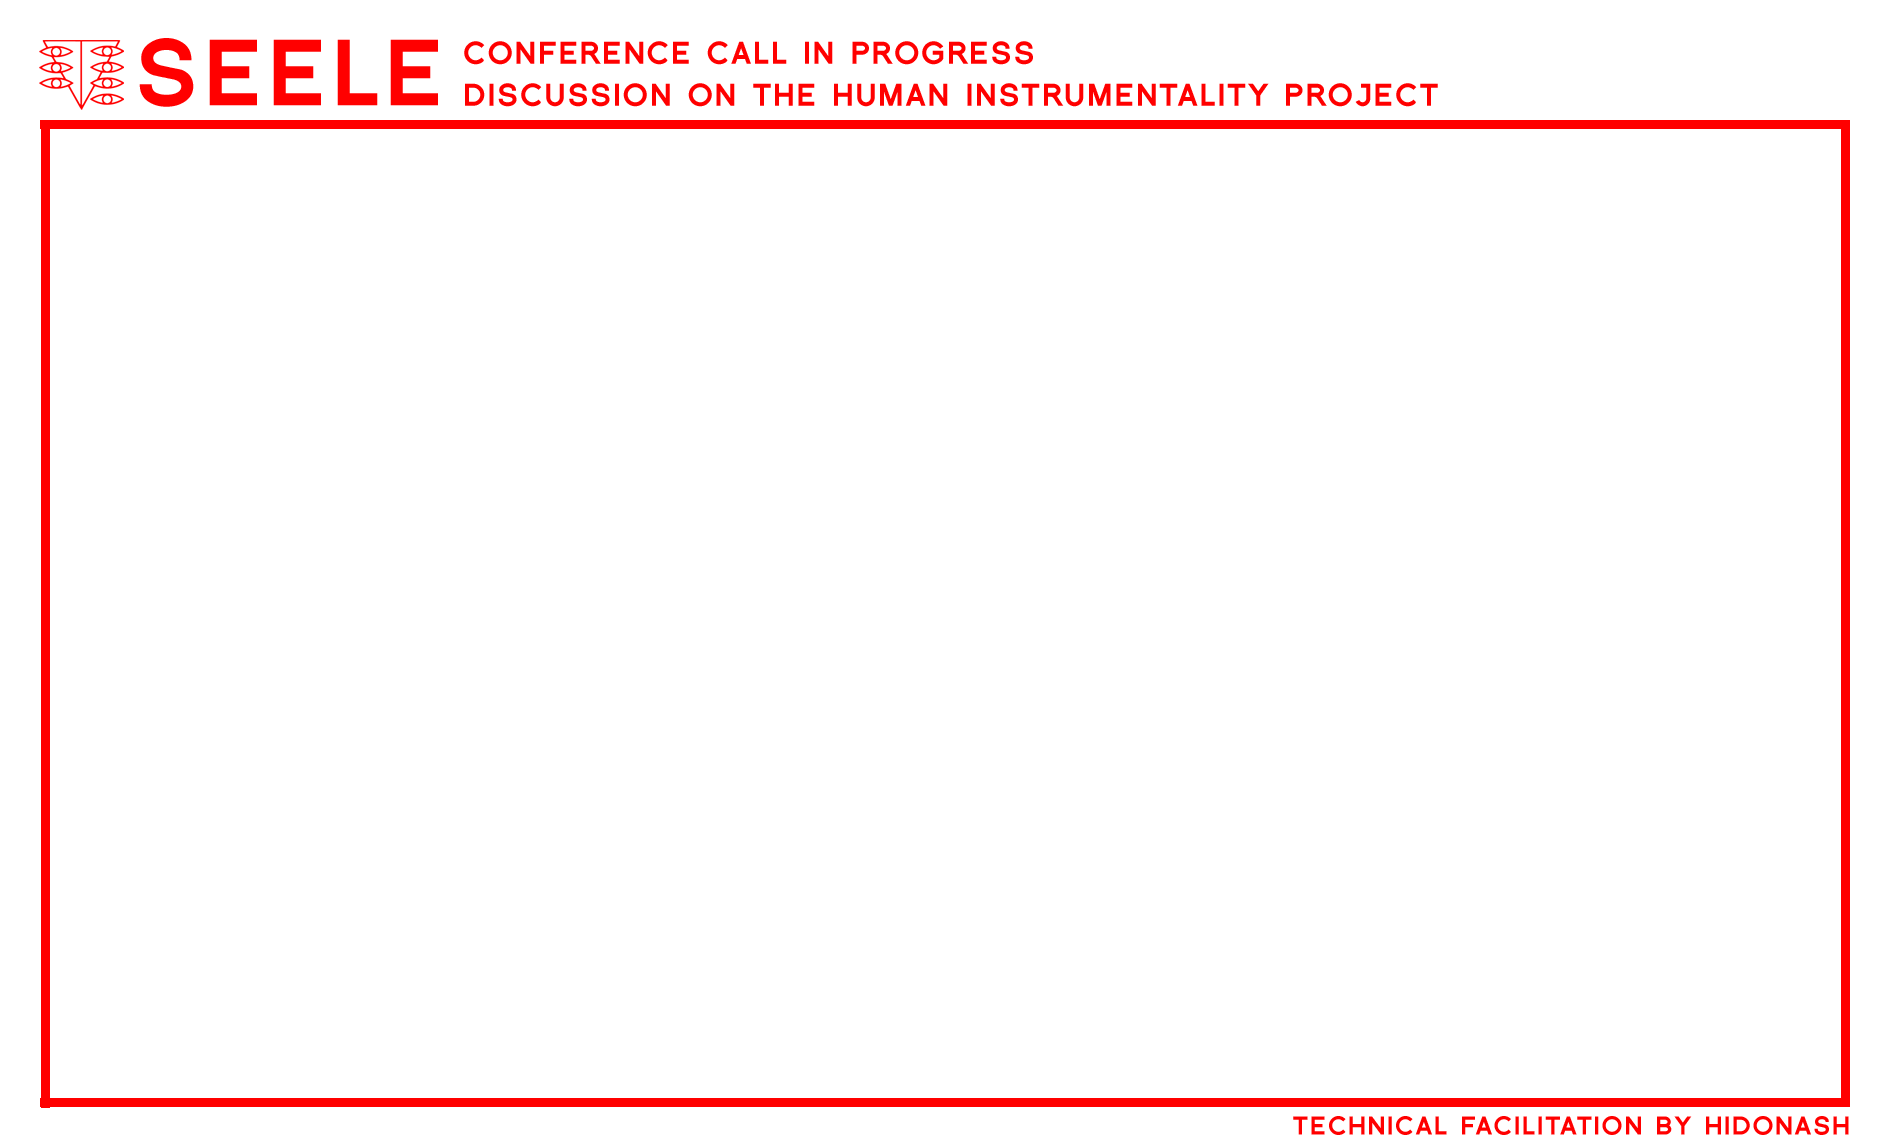
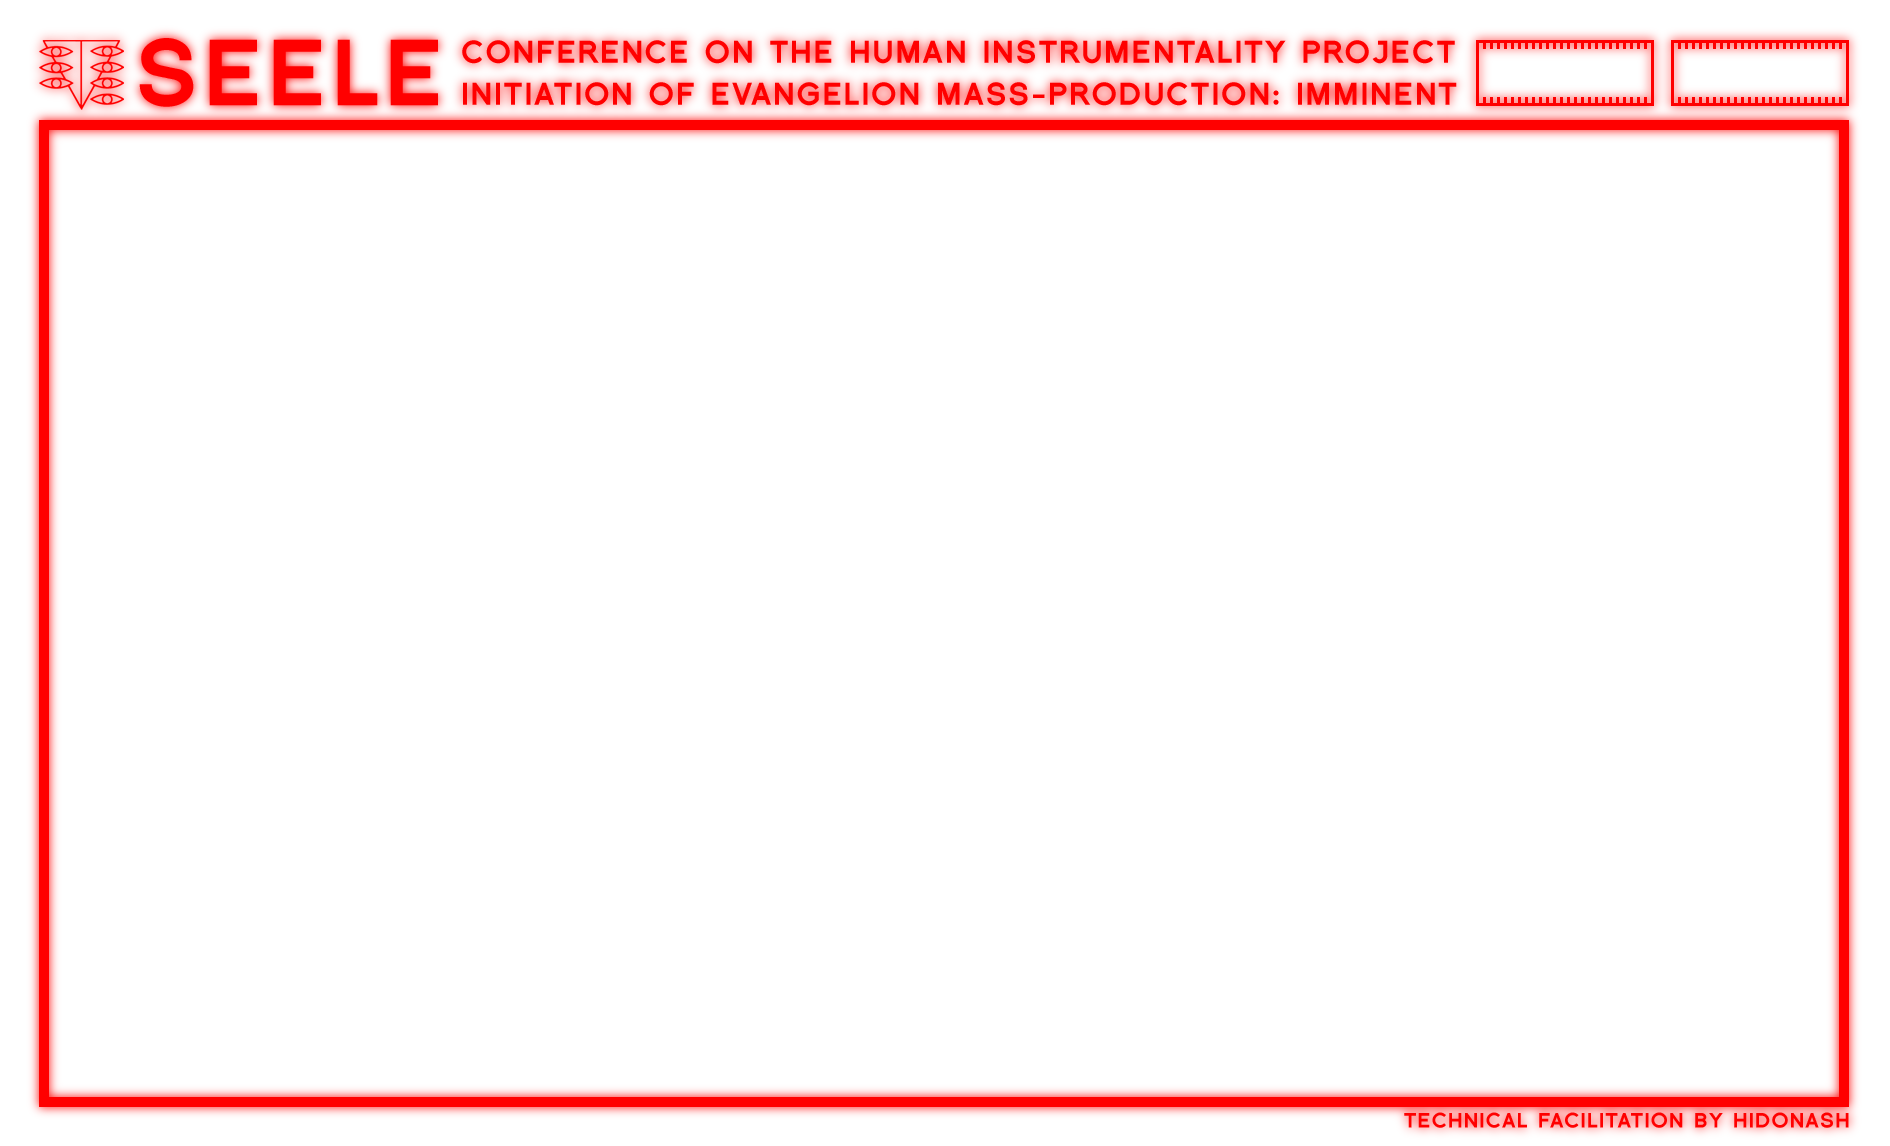
add oscilloscope

Changed region(s): [[0.0, 0.0305, 0.9989, 1.0]]

diff --git a/seele/src/PluginProcessor.cpp b/seele/src/PluginProcessor.cpp
@@ -1,8 +1,8 @@
 #include "PluginProcessor.h"
 #include "PluginEditor.h"
+#include "juce_core/juce_core.h"
 #include "seeleCore/MemberParameterSet.h"
 
-#include <functional>
 #include <seeleCore/Factory.h>
 #include <seeleCore/Config.h>
 
@@ -13,8 +13,10 @@ NewProjectAudioProcessor::NewProjectAudioProcessor()
     .withOutput("Output", juce::AudioChannelSet::stereo(), true))
 , parameters_(*this, nullptr, "Parameters", createParameters())
 , memberParameterSet_(std::make_unique<hidonash::MemberParameterSet>(parameters_))
+, currentProgram_(1)
+, audioFifo_(64)
 {
-    setLatencySamples(latency_);
+    setLatencySamples(16);
 
     programs_.emplace_back("program one");
     programs_.emplace_back("program two");
@@ -73,6 +75,7 @@ void NewProjectAudioProcessor::changeProgramName (int index, const juce::String&
 void NewProjectAudioProcessor::prepareToPlay (double sampleRate, int samplesPerBlock)
 {
     engine_ = hidonash::Factory().createEngine(*memberParameterSet_, sampleRate, samplesPerBlock, getTotalNumInputChannels());
+    visualizationBuffer_.setSize(getTotalNumInputChannels(), samplesPerBlock);
 }
 
 void NewProjectAudioProcessor::releaseResources()
@@ -98,6 +101,9 @@ void NewProjectAudioProcessor::processBlock(juce::AudioBuffer<float>& buffer, ju
 
     buffer.copyFrom (0, 0, inputBuffer.getDataPointer(), inputBuffer.getNumSamples());
     buffer.copyFrom (1, 0, inputBuffer.getDataPointer(), inputBuffer.getNumSamples());
+
+    const std::lock_guard<std::mutex> lock(bufferMutex_);
+    pushNextAudioBlock(buffer.getReadPointer(0), buffer.getNumSamples());
 }
 
 bool NewProjectAudioProcessor::hasEditor() const
@@ -123,6 +129,12 @@ juce::AudioProcessor* JUCE_CALLTYPE createPluginFilter()
     return new NewProjectAudioProcessor();
 }
 
+void NewProjectAudioProcessor::pushNextAudioBlock(const float* data, int numSamples)
+{
+   auto* bufferToWrite = visualizationBuffer_.getWritePointer(0);
+   std::memcpy(bufferToWrite, data, numSamples * sizeof(float));
+}
+
 juce::AudioProcessorValueTreeState::ParameterLayout NewProjectAudioProcessor::createParameters()
 {
     auto parameters = std::vector<std::unique_ptr<juce::RangedAudioParameter>>();
@@ -143,5 +155,13 @@ juce::AudioProcessorValueTreeState::ParameterLayout NewProjectAudioProcessor::cr
 juce::AudioProcessorValueTreeState& NewProjectAudioProcessor::getAudioProcessorValueTreeState()
 {
     return parameters_;
+}
+
+void NewProjectAudioProcessor::getLatestAudioBlock(float* data, int numSamples)
+{
+   const std::lock_guard<std::mutex> lock(bufferMutex_);
+
+   auto* bufferToRead = visualizationBuffer_.getReadPointer(0);
+   std::memcpy(data, bufferToRead, numSamples * sizeof(float));
 }
 

diff --git a/seele/src/MainComponent.cpp b/seele/src/MainComponent.cpp
@@ -1,20 +1,29 @@
 #include "MainComponent.h"
-#include "MemberArea.h"
+
 #include "juce_gui_basics/juce_gui_basics.h"
 
-#include <seeleCore/Config.h>
+#include "MemberArea.h"
+#include "Oscilloscope.h"
 
+#include <seeleCore/Config.h>
 #include <GraphicAssets.h>
 
 
 namespace hidonash
 {
-    MainComponent::MainComponent()
+    MainComponent::MainComponent(NewProjectAudioProcessor& processor)
     : seeleLogo_(juce::Drawable::createFromImageData(hidonash::resources::graphicassets::seele_frame_png,
                                                      hidonash::resources::graphicassets::seele_frame_pngSize))
+    , processor_(processor)
     {
         memberArea_ = std::make_unique<hidonash::MemberArea>();
         addAndMakeVisible(memberArea_.get());
+
+        for (auto n = 0; n < oscilloscope_.size(); ++n)
+        {
+            oscilloscope_[n] = std::make_unique<hidonash::Oscilloscope>(processor_, processor_.getBlockSize());
+            addAndMakeVisible(oscilloscope_[n].get());
+        }
     }
 
     void MainComponent::resized()
@@ -25,6 +34,17 @@ namespace hidonash
         auto memberBounds = getBounds().reduced(widthPadding, heightPadding);
         memberArea_->setBounds(memberBounds);
         memberArea_->setTopLeftPosition(widthPadding, 1.25f * heightPadding);
+
+        auto oscilloscopeBoundsLeft = getBounds();
+        oscilloscopeBoundsLeft.removeFromLeft(getWidth() * 0.774f);
+        oscilloscopeBoundsLeft.removeFromBottom(getHeight() * 0.917f);
+        oscilloscopeBoundsLeft.removeFromRight(getWidth() * 0.138f);
+        oscilloscopeBoundsLeft.removeFromTop(getHeight() * 0.045f);
+        oscilloscope_[0]->setBounds(oscilloscopeBoundsLeft);
+
+        auto oscilloscopeBoundsRight = oscilloscopeBoundsLeft;
+        oscilloscope_[1]->setBounds(oscilloscopeBoundsRight);
+        oscilloscope_[1]->setTopLeftPosition(oscilloscopeBoundsLeft.getX() + getWidth() / 10.f, oscilloscopeBoundsLeft.getY());
     }
 
     SeeleSlider& MainComponent::getSanctitySlider(size_t index)
@@ -45,4 +65,3 @@ namespace hidonash
         seeleLogo_->drawWithin(g, getBounds().toFloat(), juce::RectanglePlacement::centred, 1.f);
     }
 }
-

diff --git a/seele/src/MemberArea.cpp b/seele/src/MemberArea.cpp
@@ -8,10 +8,6 @@
 
 namespace hidonash
 {
-    MemberArea::MemberArea()
-    {
-    }
-
     void MemberArea::resized()
     {
         auto localBounds = getLocalBounds();
@@ -25,21 +21,22 @@ namespace hidonash
             textBoxes_.emplace_back(std::make_unique<TextBox>(*sanctitySliders_[n]));
 
             auto singleMemberBounds = localBounds.removeFromLeft(singleMemberWidth);
-            auto sliderBounds = (singleMemberBounds.removeFromLeft(singleMemberWidth / 2));
-            sliderBounds.setHeight(localBounds.getHeight() - 2 * summonTogglesHeight);
+            auto sliderBounds = singleMemberBounds.removeFromLeft(singleMemberWidth);
+            const int widthPadding = singleMemberWidth / 6;
+            sliderBounds.reduce(widthPadding, 0);
+            sliderBounds.setHeight(localBounds.getHeight() - 4 * summonTogglesHeight);
             sanctitySliders_[n]->setBounds(sliderBounds);
             addAndMakeVisible(*sanctitySliders_[n]);
 
             auto summonToggleBounds = sliderBounds;
-            summonToggleBounds.setTop(sliderBounds.getHeight() / 1.25);
             summonToggles_[n]->setBounds(summonToggleBounds);
-            summonToggles_[n]->setTopLeftPosition(sliderBounds.getX(), sliderBounds.getY() + sliderBounds.getHeight() + summonTogglesHeight);
+            summonToggles_[n]->setTopLeftPosition(sliderBounds.getX(), sliderBounds.getY() + sliderBounds.getHeight() + 3 * summonTogglesHeight);
             addAndMakeVisible(*summonToggles_[n]);
 
-            auto textBoxBounds = summonToggleBounds;
-            textBoxBounds.setY(textBoxBounds.getY() - summonTogglesHeight);
-            textBoxes_[n]->setBounds(textBoxBounds);
-            addAndMakeVisible(*textBoxes_[n]);
+            //auto textBoxBounds = sliderBounds;
+            //textBoxes_[n]->setBounds(textBoxBounds);
+            //textBoxes_[n]->setTopLeftPosition(sliderBounds.getX(), sliderBounds.getY() + sliderBounds.getHeight() - summonTogglesHeight);
+            //addAndMakeVisible(*textBoxes_[n]);
         }
     }
 

diff --git a/seele/src/PluginEditor.cpp b/seele/src/PluginEditor.cpp
@@ -6,9 +6,9 @@
 
 
 NewProjectAudioProcessorEditor::NewProjectAudioProcessorEditor (NewProjectAudioProcessor& p)
-: AudioProcessorEditor(&p), processor (p)
+: AudioProcessorEditor(&p), processor_ (p)
 {
-    mainComponent_ = std::make_unique<hidonash::MainComponent>();
+    mainComponent_ = std::make_unique<hidonash::MainComponent>(processor_);
     setSize(640, 380);
     addAndMakeVisible(mainComponent_.get());
 
@@ -28,7 +28,6 @@ NewProjectAudioProcessorEditor::NewProjectAudioProcessorEditor (NewProjectAudioP
         buttonAttachments_.emplace_back(std::make_unique<juce::ButtonParameterAttachment>(*(p.getAudioProcessorValueTreeState().getParameter(summonStateparameterID)),
                                                                                           mainComponent_->getSummonToggle(n)));
     }
-
 }
 
 void NewProjectAudioProcessorEditor::resized()

diff --git a/seele/inc/PluginProcessor.h b/seele/inc/PluginProcessor.h
@@ -38,7 +38,11 @@ public:
 
     juce::AudioProcessorValueTreeState& getAudioProcessorValueTreeState();
 
+    void getLatestAudioBlock(float* data, int numSamples);
+
 private:
+    void pushNextAudioBlock(const float* data, int numSamples);
+
     juce::AudioProcessorValueTreeState::ParameterLayout createParameters();
 
     JUCE_DECLARE_NON_COPYABLE_WITH_LEAK_DETECTOR (NewProjectAudioProcessor)
@@ -47,7 +51,10 @@ private:
     hidonash::MemberParameterSetPtr memberParameterSet_;
 
     std::vector<std::string> programs_;
-    int currentProgram_{1};
-    const int latency_{16};
+    int currentProgram_;
     hidonash::AudioProcessorPtr engine_;
+
+    juce::AudioBuffer<float> visualizationBuffer_;
+    juce::AbstractFifo audioFifo_;
+    std::mutex bufferMutex_;
 };

diff --git a/seele/inc/MainComponent.h b/seele/inc/MainComponent.h
@@ -1,10 +1,13 @@
 #pragma once
 
 #include <memory>
+#include <array>
 
 #include <juce_audio_processors/juce_audio_processors.h>
 
 #include "MemberArea.h"
+#include "Oscilloscope.h"
+#include "PluginProcessor.h"
 #include "SummonToggle.h"
 
 
@@ -13,7 +16,7 @@ namespace hidonash
     class MainComponent : public juce::Component
     {
     public:
-        MainComponent();
+        MainComponent(NewProjectAudioProcessor& processor);
 
         ~MainComponent() override = default;
 
@@ -28,5 +31,7 @@ namespace hidonash
     private:
         std::unique_ptr<juce::Drawable> seeleLogo_;
         std::unique_ptr<MemberArea> memberArea_;
+        std::array<std::unique_ptr<Oscilloscope>, 2> oscilloscope_;
+        NewProjectAudioProcessor& processor_;
     };
 }

diff --git a/seele/inc/PluginEditor.h b/seele/inc/PluginEditor.h
@@ -15,7 +15,7 @@ public:
     void resized() override;
 
 private:
-    NewProjectAudioProcessor& processor;
+    NewProjectAudioProcessor& processor_;
     std::unique_ptr<hidonash::MainComponent> mainComponent_;
     std::vector<std::unique_ptr<juce::SliderParameterAttachment>> sliderAttachments_;
     std::vector<std::unique_ptr<juce::ButtonParameterAttachment>> buttonAttachments_;

diff --git a/seele/inc/MemberArea.h b/seele/inc/MemberArea.h
@@ -14,7 +14,7 @@ namespace hidonash
     class MemberArea : public juce::Component
     {
     public:
-        MemberArea();
+        MemberArea() = default;
 
         ~MemberArea() override = default;
 
